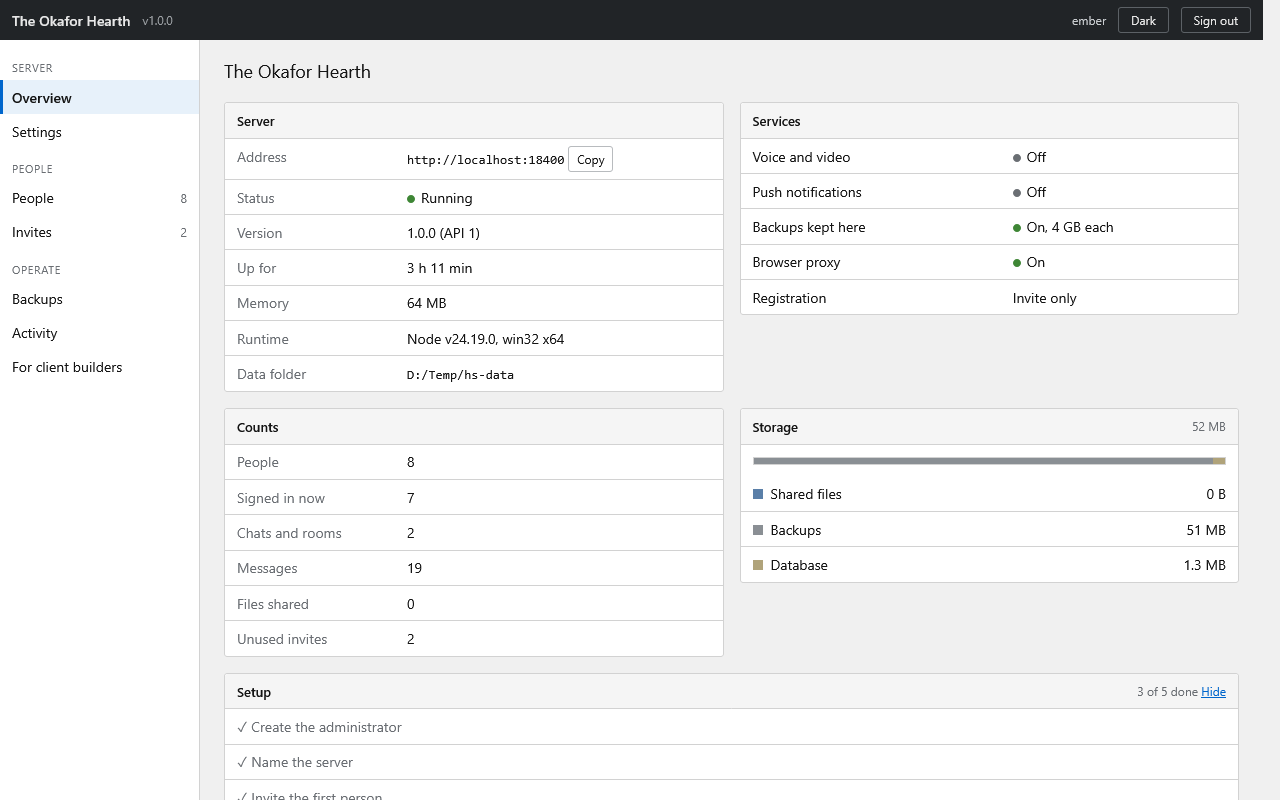
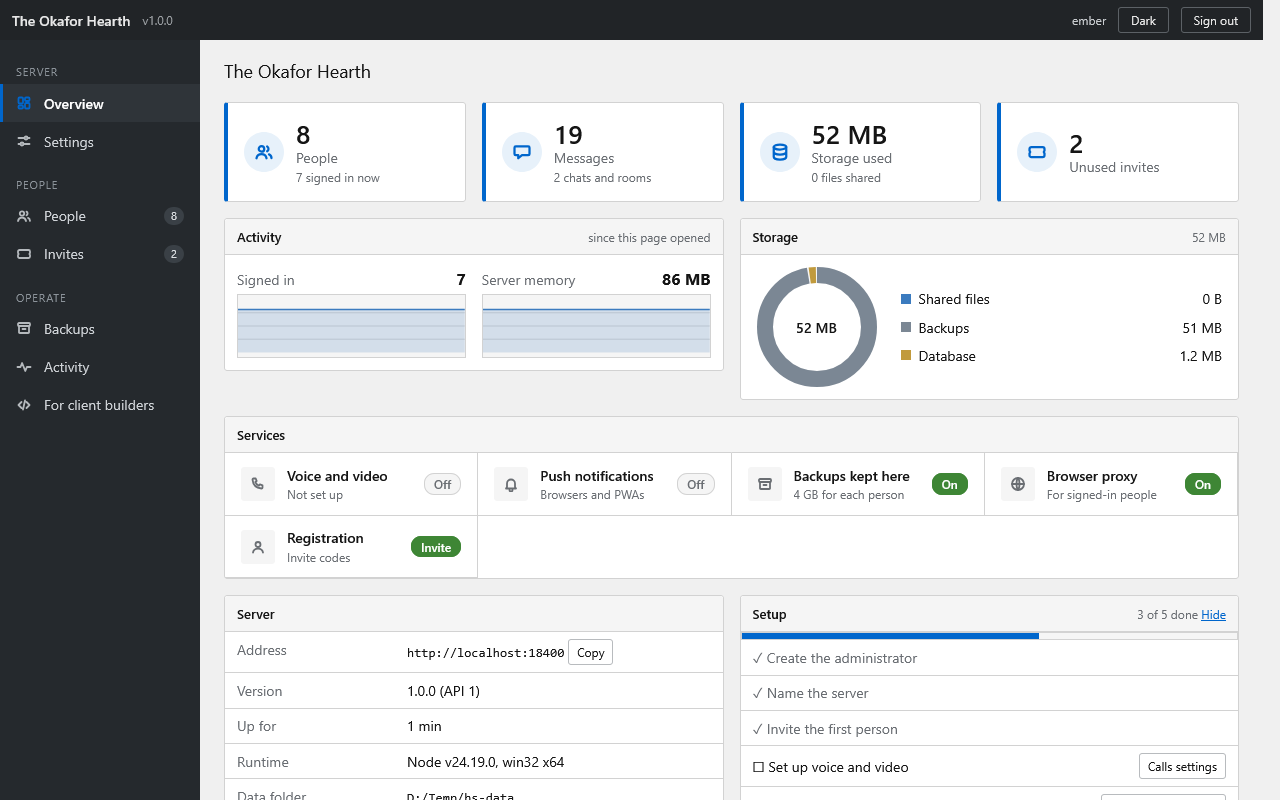
Admin panel: more structure (still flat)
A dark sidebar with icons and counts, stat tiles, live sparklines of signed-in people and server memory, a storage ring, service cards with status badges, avatars in the people table. No glow, no gradients, no web fonts.

diff --git a/server/src/admin/v-overview.js b/server/src/admin/v-overview.js
@@ -1,7 +1,24 @@
-import { api, bytes, button, confirmBox, copy, duration, h, pageHead, pill, toast } from './ui.js';
+import { icon } from './icons.js';
+import { ring, sparkline } from './charts.js';
+import { api, bytes, button, confirmBox, copy, duration, h, pageHead, toast } from './ui.js';
 
 const DISMISSED = 'hearth-admin-checklist-dismissed';
 const dismissed = () => { try { return localStorage.getItem(DISMISSED) === '1'; } catch { return false; } };
+
+// A short history of the server's memory and how many people are signed in, kept while this page is open.
+const history = { memory: [], signedIn: [] };
+const remember = (s) => {
+  history.memory.push(s.memoryMb); history.signedIn.push(s.counts.signedIn);
+  for (const k of Object.keys(history)) if (history[k].length > 90) history[k].shift();
+};
+
+const tile = (ico, label, value, sub) => h('div', { class: 'tile' }, h('div', { class: 'tile-ico' }, icon(ico)), h('div', { class: 'tile-body' }, h('div', { class: 'tile-n num' }, String(value)), h('div', { class: 'tile-l' }, label), sub ? h('div', { class: 'tile-s' }, sub) : null));
+
+const badge = (text, kind) => h('span', { class: 'badge ' + kind }, text);
+
+function service({ ico, title, state, kind, line }) {
+  return h('div', { class: 'svc' }, h('div', { class: 'svc-ico' }, icon(ico)), h('div', { class: 'svc-body' }, h('div', { class: 'svc-t' }, title), h('div', { class: 'svc-l' }, line)), badge(state, kind));
+}
 
 const kv = (rows) => h('div', { class: 'kv' }, rows.flatMap(([k, v]) => [h('div', { class: 'k' }, k), h('div', null, v)]));
 
@@ -9,6 +26,7 @@ export async function overview(ctx) {
   const [s, info] = await Promise.all([api('/api/admin/status'), api('/api/server/info')]);
   ctx.state.info = info;
   ctx.setCounts({ users: s.counts.users, invites: s.counts.openInvites });
+  remember(s);
   const origin = location.origin;
 
   const banners = [];
@@ -27,54 +45,52 @@ export async function overview(ctx) {
   const showList = !dismissed() && doneCount < steps.length;
 
   const total = s.storageBytes.uploads + s.storageBytes.backups + s.storageBytes.database;
-  const parts = [['Shared files', s.storageBytes.uploads, '#5a7fa8'], ['Backups', s.storageBytes.backups, '#8a8f94'], ['Database', s.storageBytes.database, '#b0a37a']];
-
-  const status = (label, on) => h('span', null, h('span', { class: 'dot' + (on === true ? ' good' : on === 'bad' ? ' bad' : '') }), label);
+  const parts = [['Shared files', s.storageBytes.uploads, 'var(--c1)'], ['Backups', s.storageBytes.backups, 'var(--c2)'], ['Database', s.storageBytes.database, 'var(--c3)']];
+  const callsState = s.calls.configured ? (s.calls.reachable ? ['Ready', 'good'] : ['Unreachable', 'bad']) : ['Off', 'off'];
 
   return h('div', null,
-    pageHead({ title: info.name }),
+    pageHead({ title: info.name, actions: s.supervised ? button('Restart server', { kind: 'danger', onclick: async () => {
+      if (!(await confirmBox({ title: 'Restart the server', text: 'People are disconnected for a few seconds and reconnect by themselves.', yes: 'Restart', danger: true }))) return;
+      try { await api('/api/admin/restart', { method: 'POST' }); toast('Restarting. This page reconnects by itself.'); setTimeout(() => ctx.render(), 6000); } catch (e) { toast(e.message, true); }
+    } }) : null }),
     banners.length ? h('div', { class: 'banners' }, banners.map((b) => h('div', { class: 'banner', role: 'note' }, h('div', { class: 'grow' }, b.text), b.action ? button(b.action[0], { small: true, onclick: b.action[1] }) : null))) : null,
+
+    h('div', { class: 'tiles' },
+      tile('people', 'People', s.counts.users, `${s.counts.signedIn} signed in now`),
+      tile('msg', 'Messages', s.counts.messages, `${s.counts.rooms} chats and rooms`),
+      tile('database', 'Storage used', bytes(total), `${s.counts.attachments} files shared`),
+      tile('invites', 'Unused invites', s.counts.openInvites)),
+
+    h('div', { class: 'cols' },
+      h('div', { class: 'panel' }, h('div', { class: 'ph' }, 'Activity', h('span', { class: 'meta' }, 'since this page opened')),
+        h('div', { class: 'charts' },
+          h('div', { class: 'chart' }, h('div', { class: 'chart-h' }, h('span', null, 'Signed in'), h('strong', { class: 'num' }, String(s.counts.signedIn))), sparkline(history.signedIn)),
+          h('div', { class: 'chart' }, h('div', { class: 'chart-h' }, h('span', null, 'Server memory'), h('strong', { class: 'num' }, `${s.memoryMb} MB`)), sparkline(history.memory)))),
+      h('div', { class: 'panel' }, h('div', { class: 'ph' }, 'Storage', h('span', { class: 'meta num' }, bytes(total))),
+        h('div', { class: 'storage' },
+          h('div', { class: 'ring-wrap' }, ring(parts.map(([, v, c]) => ({ value: v, color: c }))), h('div', { class: 'ring-c num' }, bytes(total))),
+          h('div', { class: 'legend' }, parts.map(([n, v, c]) => h('div', { class: 'lg' }, h('span', { class: 'swatch', style: `--c:${c}` }), h('span', { class: 'lg-n' }, n), h('span', { class: 'num' }, bytes(v)))))))),
+
+    h('div', { class: 'panel' }, h('div', { class: 'ph' }, 'Services'),
+      h('div', { class: 'svcs' },
+        service({ ico: 'calls', title: 'Voice and video', state: callsState[0], kind: callsState[1], line: s.calls.configured ? 'LiveKit' : 'Not set up' }),
+        service({ ico: 'push', title: 'Push notifications', state: s.push.configured ? 'On' : 'Off', kind: s.push.configured ? 'good' : 'off', line: 'Browsers and PWAs' }),
+        service({ ico: 'backups', title: 'Backups kept here', state: info.features.backups ? 'On' : 'Off', kind: info.features.backups ? 'good' : 'off', line: `${Math.round(info.limits.backupQuotaMb / 1024 * 10) / 10} GB for each person` }),
+        service({ ico: 'browser', title: 'Browser proxy', state: info.features.browser ? 'On' : 'Off', kind: info.features.browser ? 'good' : 'off', line: 'For signed-in people' }),
+        service({ ico: 'user', title: 'Registration', state: info.registration === 'open' ? 'Open' : 'Invite', kind: info.registration === 'open' ? 'warn' : 'good', line: info.houseKey ? 'A house key is set' : 'Invite codes' }))),
 
     h('div', { class: 'cols' },
       h('div', { class: 'panel' }, h('div', { class: 'ph' }, 'Server'),
         kv([
           ['Address', h('span', null, h('code', null, origin), ' ', button('Copy', { small: true, onclick: () => copy(origin, 'Address copied') }))],
-          ['Status', status('Running', true)],
           ['Version', h('span', { class: 'num' }, `${s.version} (API ${s.apiVersion})`)],
           ['Up for', h('span', { class: 'num' }, duration(s.uptimeSeconds))],
-          ['Memory', h('span', { class: 'num' }, `${s.memoryMb} MB`)],
           ['Runtime', h('span', { class: 'num' }, `Node ${s.node}, ${s.platform}`)],
           ['Data folder', h('code', null, s.dataDir)],
         ])),
-      h('div', { class: 'panel' }, h('div', { class: 'ph' }, 'Services'),
-        h('div', { class: 'table-wrap' }, h('table', null, h('tbody', null,
-          h('tr', null, h('td', null, 'Voice and video'), h('td', null, s.calls.configured ? (s.calls.reachable ? status('Ready', true) : status('Not reachable', 'bad')) : status('Off', false))),
-          h('tr', null, h('td', null, 'Push notifications'), h('td', null, status(s.push.configured ? 'On' : 'Off', s.push.configured))),
-          h('tr', null, h('td', null, 'Backups kept here'), h('td', null, status(info.features.backups ? `On, ${Math.round(info.limits.backupQuotaMb / 1024 * 10) / 10} GB each` : 'Off', info.features.backups))),
-          h('tr', null, h('td', null, 'Browser proxy'), h('td', null, status(info.features.browser ? 'On' : 'Off', info.features.browser))),
-          h('tr', null, h('td', null, 'Registration'), h('td', null, info.registration === 'open' ? 'Open' : info.houseKey ? 'Invite or house key' : 'Invite only')))))),
-    ),
-
-    h('div', { class: 'cols' },
-      h('div', { class: 'panel' }, h('div', { class: 'ph' }, 'Counts'),
-        kv([
-          ['People', h('span', { class: 'num' }, String(s.counts.users))],
-          ['Signed in now', h('span', { class: 'num' }, String(s.counts.signedIn))],
-          ['Chats and rooms', h('span', { class: 'num' }, String(s.counts.rooms))],
-          ['Messages', h('span', { class: 'num' }, String(s.counts.messages))],
-          ['Files shared', h('span', { class: 'num' }, String(s.counts.attachments))],
-          ['Unused invites', h('span', { class: 'num' }, String(s.counts.openInvites))],
-        ])),
-      h('div', { class: 'panel' }, h('div', { class: 'ph' }, 'Storage', h('span', { class: 'meta num' }, bytes(total))),
-        h('div', { class: 'pad' }, h('div', { class: 'bar', role: 'img', 'aria-label': parts.map(([n, v]) => `${n} ${bytes(v)}`).join(', ') }, parts.filter(([, v]) => v > 0).map(([, v, c]) => h('span', { style: `--c:${c};flex:${v} 1 0` })))),
-        h('div', { class: 'table-wrap' }, h('table', null, h('tbody', null, parts.map(([n, v, c]) => h('tr', null, h('td', null, h('span', { class: 'swatch', style: `--c:${c}` }), n), h('td', { class: 'r num' }, bytes(v))))))))),
-
-    showList ? h('div', { class: 'panel' },
-      h('div', { class: 'ph' }, 'Setup', h('span', { class: 'meta' }, `${doneCount} of ${steps.length} done `, h('button', { type: 'button', class: 'link', onclick: () => { try { localStorage.setItem(DISMISSED, '1'); } catch { /* ignore */ } ctx.render(); } }, 'Hide'))),
-      h('div', { class: 'table-wrap' }, h('table', null, h('tbody', null, steps.map((x) => h('tr', { class: x.done ? 'off' : '' }, h('td', null, x.done ? '✓ ' : '☐ ', x.t), h('td', { class: 'actions' }, !x.done && x.go ? button(x.go[0], { small: true, onclick: x.go[1] }) : null))))))) : null,
-
-    s.supervised ? h('div', null, button('Restart server', { kind: 'danger', onclick: async () => {
-      if (!(await confirmBox({ title: 'Restart the server', text: 'People are disconnected for a few seconds and reconnect by themselves.', yes: 'Restart', danger: true }))) return;
-      try { await api('/api/admin/restart', { method: 'POST' }); toast('Restarting. This page reconnects by itself.'); setTimeout(() => ctx.render(), 6000); } catch (e) { toast(e.message, true); }
-    } })) : null);
+      showList ? h('div', { class: 'panel' },
+        h('div', { class: 'ph' }, 'Setup', h('span', { class: 'meta' }, `${doneCount} of ${steps.length} done `, h('button', { type: 'button', class: 'link', onclick: () => { try { localStorage.setItem(DISMISSED, '1'); } catch { /* ignore */ } ctx.render(); } }, 'Hide'))),
+        h('div', { class: 'meter' }, h('span', { style: `width:${(doneCount / steps.length) * 100}%` })),
+        h('div', { class: 'table-wrap' }, h('table', null, h('tbody', null, steps.map((x) => h('tr', { class: x.done ? 'off' : '' }, h('td', null, x.done ? '✓ ' : '☐ ', x.t), h('td', { class: 'actions' }, !x.done && x.go ? button(x.go[0], { small: true, onclick: x.go[1] }) : null))))))) : h('div', { class: 'panel' }, h('div', { class: 'ph' }, 'Counts'),
+        kv([['People', String(s.counts.users)], ['Signed in now', String(s.counts.signedIn)], ['Chats and rooms', String(s.counts.rooms)], ['Messages', String(s.counts.messages)], ['Files shared', String(s.counts.attachments)]]))));
 }

diff --git a/server/src/admin/admin.css b/server/src/admin/admin.css
@@ -26,6 +26,12 @@
   --good:   light-dark(#3e8635, #6ec664);
   --warn:   light-dark(#795600, #f0c35a);
   --bad:    light-dark(#c9190b, #ff7b72);
+  --c1: light-dark(#3b7bbf, #5aa2f0);
+  --c2: light-dark(#7b8794, #8f99a4);
+  --c3: light-dark(#c19a3c, #d8b45a);
+  --nav: #25292d;
+  --nav-2: #2f3439;
+  --nav-ink: #cfd3d7;
   --warn-bg: light-dark(#fdf7e7, #3a3320);
   --bad-bg:  light-dark(#faeae8, #402523);
 }
@@ -101,12 +107,14 @@ code, .mono { font-family: var(--mono); font-size: 13px; }
 .hdr .menu { display: none; }
 .hdr .who { font-size: var(--t-sm); color: #c8cbce; }
 .layout { display: grid; grid-template-columns: 200px minmax(0, 1fr); min-height: calc(100vh - 40px); }
-.side { position: sticky; top: 40px; align-self: start; height: calc(100vh - 40px); overflow: auto; background: var(--panel); border-right: 1px solid var(--line); padding: var(--s2) 0; }
-.side .group { padding: var(--s3) var(--s3) var(--s1); font-size: 11px; text-transform: uppercase; letter-spacing: .06em; color: var(--muted); }
-.side a { display: flex; justify-content: space-between; align-items: center; padding: 7px var(--s3) 7px calc(var(--s3) - 3px); border-left: 3px solid transparent; color: var(--ink); text-decoration: none; }
-.side a:hover { background: var(--hover); }
-.side a[aria-current="page"] { background: var(--sel); border-left-color: var(--accent); font-weight: 600; }
-.side .count { color: var(--muted); font-size: var(--t-sm); font-weight: 400; }
+.side { position: sticky; top: 40px; align-self: start; height: calc(100vh - 40px); overflow: auto; background: var(--nav); color: var(--nav-ink); padding: var(--s2) 0; }
+.side .group { padding: var(--s4) var(--s4) var(--s1); font-size: 11px; text-transform: uppercase; letter-spacing: .08em; color: #8c939a; }
+.side a { display: flex; align-items: center; gap: var(--s3); padding: 9px var(--s4) 9px calc(var(--s4) - 3px); border-left: 3px solid transparent; color: var(--nav-ink); text-decoration: none; }
+.side a .icon { width: 16px; height: 16px; opacity: .85; }
+.side a:hover { background: var(--nav-2); color: #fff; }
+.side a[aria-current="page"] { background: var(--nav-2); border-left-color: var(--accent); color: #fff; font-weight: 600; }
+.side a[aria-current="page"] .icon { color: var(--accent); opacity: 1; }
+.side .count { margin-left: auto; background: #3a4046; color: #dfe2e5; border-radius: 9px; padding: 0 7px; font-size: 11px; line-height: 18px; font-weight: 400; }
 .main { min-width: 0; padding: var(--s4) var(--s5) 80px; max-width: 1180px; width: 100%; }
 .page > * + * { margin-top: var(--s4); }
 .page-head { display: flex; align-items: center; justify-content: space-between; gap: var(--s3); min-height: 30px; }
@@ -214,3 +222,40 @@ dialog::backdrop { background: rgba(0, 0, 0, .45); }
   .kv { grid-template-columns: 120px minmax(0, 1fr); }
 }
 @media print { .hdr, .side, .savebar { display: none; } }
+
+/* ------------------------------------------------------------------ dashboard */
+.tiles { display: grid; grid-template-columns: repeat(4, minmax(0, 1fr)); gap: var(--s4); }
+.tile { display: flex; align-items: center; gap: var(--s3); padding: var(--s4); background: var(--panel); border: 1px solid var(--line); border-radius: var(--r); border-left: 4px solid var(--accent); }
+.tile-ico { display: grid; place-items: center; width: 40px; height: 40px; border-radius: 50%; background: var(--sel); color: var(--accent); flex: none; }
+.tile-ico .icon { width: 20px; height: 20px; }
+.tile-n { font-size: 26px; font-weight: 600; line-height: 1.1; }
+.tile-l { color: var(--muted); }
+.tile-s { color: var(--muted); font-size: var(--t-sm); }
+.charts { display: grid; grid-template-columns: 1fr 1fr; gap: var(--s4); padding: var(--s3); }
+.chart-h { display: flex; justify-content: space-between; align-items: baseline; margin-bottom: var(--s1); color: var(--muted); }
+.chart-h strong { color: var(--ink); font-size: 16px; }
+.spark { width: 100%; height: 64px; display: block; background: var(--head); border: 1px solid var(--line); }
+.spark .grid { stroke: var(--line); stroke-width: 1; }
+.spark .area { fill: var(--c1); opacity: .18; }
+.spark .line { fill: none; stroke: var(--c1); stroke-width: 1.6; stroke-linejoin: round; }
+.storage { display: flex; align-items: center; gap: var(--s5); padding: var(--s3) var(--s4); }
+.ring-wrap { position: relative; width: 120px; height: 120px; flex: none; }
+.ring { width: 120px; height: 120px; display: block; }
+.ring-bg { fill: none; stroke: var(--head); }
+.ring-seg { fill: none; }
+.ring-c { position: absolute; inset: 0; display: grid; place-items: center; font-weight: 600; }
+.legend { flex: 1; display: grid; gap: var(--s2); min-width: 0; }
+.lg { display: flex; align-items: center; }
+.lg-n { flex: 1; }
+.svcs { display: grid; grid-template-columns: repeat(auto-fit, minmax(210px, 1fr)); }
+.svc { display: flex; align-items: center; gap: var(--s3); padding: var(--s3) var(--s4); border-right: 1px solid var(--line); border-bottom: 1px solid var(--line); }
+.svc-ico { display: grid; place-items: center; width: 34px; height: 34px; border-radius: var(--r); background: var(--head); color: var(--muted); flex: none; }
+.svc-body { flex: 1; min-width: 0; }
+.svc-t { font-weight: 600; }
+.svc-l { color: var(--muted); font-size: var(--t-sm); overflow: hidden; text-overflow: ellipsis; white-space: nowrap; }
+.badge { display: inline-block; padding: 1px 9px; border-radius: 10px; font-size: 12px; font-weight: 600; background: var(--head); color: var(--muted); border: 1px solid var(--line); }
+.badge.good { background: var(--good); border-color: var(--good); color: #fff; }
+.badge.bad { background: var(--bad); border-color: var(--bad); color: #fff; }
+.badge.warn { background: var(--warn-bg); border-color: var(--warn); color: var(--warn); }
+.avatar { display: inline-grid; place-items: center; width: 26px; height: 26px; border-radius: 50%; background: var(--c2); color: #fff; font-size: 11px; font-weight: 600; margin-right: var(--s2); vertical-align: middle; }
+@media (max-width: 900px) { .tiles { grid-template-columns: repeat(2, minmax(0, 1fr)); } .charts { grid-template-columns: 1fr; } .storage { flex-wrap: wrap; } }

diff --git a/server/src/admin/admin.js b/server/src/admin/admin.js
@@ -4,6 +4,7 @@ import { activity, backups, build, invites } from './v-more.js';
 import { overview } from './v-overview.js';
 import { people } from './v-people.js';
 import { settings } from './v-settings.js';
+import { icon } from './icons.js';
 import { api, button, h, skeleton, theme } from './ui.js';
 
 theme.apply();
@@ -12,13 +13,13 @@ const app = document.getElementById('app');
 const state = { info: null, me: null, tab: 'overview', counts: { users: null, invites: null } };
 
 const TABS = [
-  { id: 'overview', label: 'Overview', group: 'Server', view: overview },
-  { id: 'settings', label: 'Settings', group: 'Server', view: settings },
-  { id: 'people', label: 'People', group: 'People', view: people, count: 'users' },
-  { id: 'invites', label: 'Invites', group: 'People', view: invites, count: 'invites' },
-  { id: 'backups', label: 'Backups', group: 'Operate', view: backups },
-  { id: 'activity', label: 'Activity', group: 'Operate', view: activity },
-  { id: 'build', label: 'For client builders', group: 'Operate', view: build },
+  { id: 'overview', ico: 'overview', label: 'Overview', group: 'Server', view: overview },
+  { id: 'settings', ico: 'settings', label: 'Settings', group: 'Server', view: settings },
+  { id: 'people', ico: 'people', label: 'People', group: 'People', view: people, count: 'users' },
+  { id: 'invites', ico: 'invites', label: 'Invites', group: 'People', view: invites, count: 'invites' },
+  { id: 'backups', ico: 'backups', label: 'Backups', group: 'Operate', view: backups },
+  { id: 'activity', ico: 'activity', label: 'Activity', group: 'Operate', view: activity },
+  { id: 'build', ico: 'code', label: 'For client builders', group: 'Operate', view: build },
 ];
 const byId = (id) => TABS.find((t) => t.id === id);
 
@@ -78,7 +79,7 @@ function navLinks() {
   for (const t of TABS) {
     if (t.group !== g) { g = t.group; out.push(h('div', { class: 'group' }, g)); }
     out.push(h('a', { href: `#${t.id}`, 'aria-current': state.tab === t.id ? 'page' : false, 'data-tab': t.id, onclick: () => sideEl.classList.remove('open') },
-      t.label, t.count && state.counts[t.count] != null ? h('span', { class: 'count num' }, String(state.counts[t.count])) : null));
+      icon(t.ico), t.label, t.count && state.counts[t.count] != null ? h('span', { class: 'count num' }, String(state.counts[t.count])) : null));
   }
   return out;
 }
@@ -149,7 +150,7 @@ function route() {
 window.addEventListener('hashchange', () => { if (state.me) route(); });
 
 // the overview stays current while it is on screen
-setInterval(() => { if (state.me && state.tab === 'overview' && !document.hidden && !document.querySelector('dialog[open]')) render(true); }, 30000);
+setInterval(() => { if (state.me && state.tab === 'overview' && !document.hidden && !document.querySelector('dialog[open]')) render(true); }, 10000);
 
 // ---------------------------------------------------------------------------------------------- start
 async function boot() {

diff --git a/server/src/admin/icons.js b/server/src/admin/icons.js
@@ -1,0 +1,29 @@
+// A small set of plain line icons (16px grid, 1.8 stroke). Static strings only.
+const P = {
+  overview: '<rect x="2.5" y="2.5" width="4.5" height="6" rx="1"/><rect x="9" y="2.5" width="4.5" height="3.5" rx="1"/><rect x="9" y="8" width="4.5" height="5.5" rx="1"/><rect x="2.5" y="10.5" width="4.5" height="3" rx="1"/>',
+  settings: '<path d="M2.5 5h6M11.5 5h2M2.5 11h2M7.5 11h6"/><circle cx="10" cy="5" r="1.5"/><circle cx="6" cy="11" r="1.5"/>',
+  people: '<circle cx="6" cy="5.5" r="2.2"/><path d="M2 13c.4-2.2 2-3.3 4-3.3s3.6 1.1 4 3.3"/><path d="M10.5 3.6a2.2 2.2 0 0 1 0 3.8M12 9.9c1.2.4 1.9 1.4 2 3"/>',
+  invites: '<path d="M2 5.5A1.5 1.5 0 0 1 3.5 4h9A1.5 1.5 0 0 1 14 5.5V7a1.2 1.2 0 0 0 0 2v1.5a1.5 1.5 0 0 1-1.5 1.5h-9A1.5 1.5 0 0 1 2 10.5V9a1.2 1.2 0 0 0 0-2z"/>',
+  backups: '<rect x="2" y="3" width="12" height="3" rx="1"/><path d="M3 6v6.2a.8.8 0 0 0 .8.8h8.4a.8.8 0 0 0 .8-.8V6M6.5 9h3"/>',
+  activity: '<path d="M1.5 8h3l1.6-4 3.2 8 1.6-4h3.6"/>',
+  code: '<path d="M5.5 5 2.5 8l3 3M10.5 5l3 3-3 3M9 3.5l-2 9"/>',
+  calls: '<path d="M3.5 2.5h2.2l1 2.6-1.4 1a7 7 0 0 0 3.6 3.6l1-1.4 2.6 1v2.2a1 1 0 0 1-1.1 1C6.4 12 3 8.6 2.5 3.6a1 1 0 0 1 1-1.1z"/>',
+  push: '<path d="M4 11V7.5a4 4 0 1 1 8 0V11l1 1.5H3zM6.5 14a1.5 1.5 0 0 0 3 0"/>',
+  browser: '<circle cx="8" cy="8" r="6"/><path d="M2 8h12M8 2c2 2 2 10 0 12M8 2C6 4 6 12 8 14"/>',
+  database: '<ellipse cx="8" cy="4" rx="5" ry="2"/><path d="M3 4v8c0 1.1 2.2 2 5 2s5-.9 5-2V4M3 8c0 1.1 2.2 2 5 2s5-.9 5-2"/>',
+  server: '<rect x="2" y="3" width="12" height="4" rx="1"/><rect x="2" y="9" width="12" height="4" rx="1"/><path d="M4.5 5h.01M4.5 11h.01"/>',
+  msg: '<path d="M3 3.5h10a1 1 0 0 1 1 1v5a1 1 0 0 1-1 1H8l-3 2.5v-2.5H3a1 1 0 0 1-1-1v-5a1 1 0 0 1 1-1z"/>',
+  menu: '<path d="M2.5 4h11M2.5 8h11M2.5 12h11"/>',
+  user: '<circle cx="8" cy="5.5" r="2.5"/><path d="M3 13.5c.5-2.6 2.6-3.8 5-3.8s4.5 1.2 5 3.8"/>',
+  logout: '<path d="M6.5 3H4a1.5 1.5 0 0 0-1.5 1.5v7A1.5 1.5 0 0 0 4 13h2.5M10 5l3 3-3 3M13 8H6"/>',
+  sun: '<circle cx="8" cy="8" r="2.8"/><path d="M8 1.8v1.6M8 12.6v1.6M1.8 8h1.6M12.6 8h1.6M3.6 3.6l1.1 1.1M11.3 11.3l1.1 1.1M3.6 12.4l1.1-1.1M11.3 4.7l1.1-1.1"/>',
+  moon: '<path d="M13.5 9.8A5.5 5.5 0 0 1 6.2 2.5a5.5 5.5 0 1 0 7.3 7.3z"/>',
+};
+export function icon(name, cls = '') {
+  const svg = document.createElementNS('http://www.w3.org/2000/svg', 'svg');
+  svg.setAttribute('viewBox', '0 0 16 16');
+  svg.setAttribute('aria-hidden', 'true');
+  svg.setAttribute('class', 'icon' + (cls ? ' ' + cls : ''));
+  svg.innerHTML = P[name] || '';
+  return svg;
+}

diff --git a/server/src/admin/charts.js b/server/src/admin/charts.js
@@ -1,0 +1,35 @@
+// Two small charts drawn as inline SVG (no library): a filled line for a short history, and a ring for shares of a whole.
+const NS = 'http://www.w3.org/2000/svg';
+const el = (tag, attrs) => { const e = document.createElementNS(NS, tag); for (const [k, v] of Object.entries(attrs)) e.setAttribute(k, v); return e; };
+
+/** A line over time. `points` are numbers; the line fills down to the bottom. */
+export function sparkline(points, { width = 240, height = 56, min = 0, max } = {}) {
+  const svg = el('svg', { viewBox: `0 0 ${width} ${height}`, class: 'spark', role: 'img', 'aria-label': 'History' });
+  const data = points.length > 1 ? points : [points[0] ?? 0, points[0] ?? 0];
+  const hi = max ?? Math.max(1, ...data) * 1.15;
+  const x = (i) => (i / (data.length - 1)) * width;
+  const y = (v) => height - 2 - ((v - min) / (hi - min || 1)) * (height - 6);
+  for (let g = 1; g < 4; g++) svg.append(el('line', { x1: 0, x2: width, y1: (height / 4) * g, y2: (height / 4) * g, class: 'grid' }));
+  const line = data.map((v, i) => `${i ? 'L' : 'M'}${x(i).toFixed(1)} ${y(v).toFixed(1)}`).join(' ');
+  svg.append(el('path', { d: `${line} L${width} ${height} L0 ${height} Z`, class: 'area' }), el('path', { d: line, class: 'line' }));
+  return svg;
+}
+
+/** A ring split into shares. `parts` are { value, color }. */
+export function ring(parts, { size = 120, thickness = 16 } = {}) {
+  const svg = el('svg', { viewBox: `0 0 ${size} ${size}`, class: 'ring', role: 'img' });
+  const r = (size - thickness) / 2;
+  const c = 2 * Math.PI * r;
+  svg.append(el('circle', { cx: size / 2, cy: size / 2, r, class: 'ring-bg', 'stroke-width': thickness }));
+  const total = parts.reduce((n, p) => n + p.value, 0);
+  let offset = 0;
+  if (total > 0) for (const p of parts) {
+    if (p.value <= 0) continue;
+    const len = (p.value / total) * c;
+    const seg = el('circle', { cx: size / 2, cy: size / 2, r, class: 'ring-seg', 'stroke-width': thickness, 'stroke-dasharray': `${Math.max(len - 1.5, 0.5)} ${c}`, 'stroke-dashoffset': -offset, transform: `rotate(-90 ${size / 2} ${size / 2})` });
+    seg.style.setProperty('stroke', p.color);
+    svg.append(seg);
+    offset += len;
+  }
+  return svg;
+}

diff --git a/server/src/admin/v-people.js b/server/src/admin/v-people.js
@@ -54,7 +54,7 @@ export async function people(ctx) {
     listHost.replaceChildren(h('table', null,
       h('thead', null, h('tr', null, ['Username', 'Name', 'Role', 'Joined', 'Last signed in', 'Messages', 'Backups', ''].map((t, i) => h('th', { class: i > 4 ? 'r' : '' }, t)))),
       h('tbody', null, shown.map((u) => h('tr', { class: u.disabled ? 'off' : '' },
-        h('td', null, u.username, u.id === me.id ? ' ' : '', u.id === me.id ? pill('you') : null),
+        h('td', null, h('span', { class: 'avatar', style: `background:${u.avatarColor || ''}` }, (u.displayName || u.username).trim().slice(0, 2).toUpperCase()), u.username, u.id === me.id ? ' ' : '', u.id === me.id ? pill('you') : null),
         h('td', null, u.displayName),
         h('td', null, u.isAdmin ? 'Administrator' : 'Member', u.disabled ? [' ', pill('off', 'bad')] : null, u.twoStep ? [' ', pill('2FA', 'good')] : null),
         h('td', { class: 'num' }, joined(u.createdAt)),

diff --git a/README.md b/README.md
@@ -51,7 +51,7 @@ Data is in two Docker volumes, `hearth_data` (the database, files, backups, pane
 | Activity | What administrators did |
 | For client builders | The server's capabilities and the full route list |
 
-A plain system-administration page, served by the server itself: no build step, no outside requests, light and dark, usable on a phone.
+A system-administration page in the style of OMV and Cockpit, served by the server itself: dark sidebar, stat tiles, live graphs, status badges and tables. No build step, no outside requests, light and dark, usable on a phone.
 
 ## What is in the box
 
